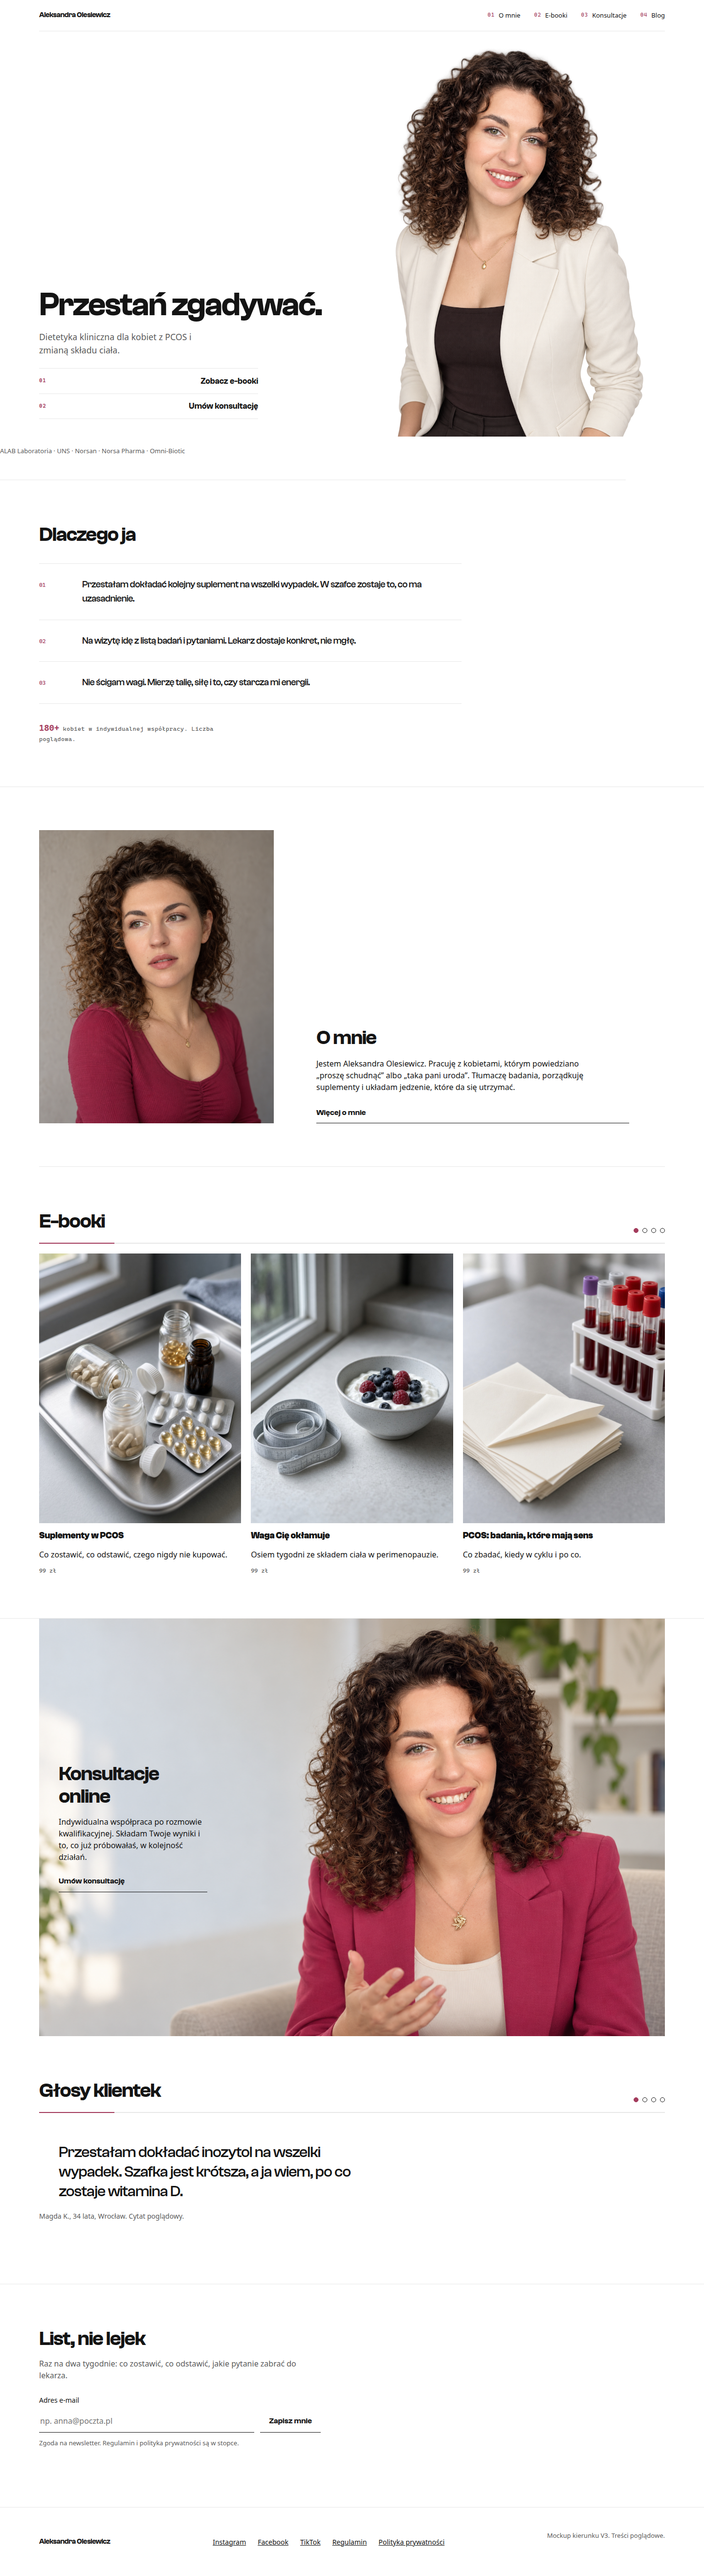
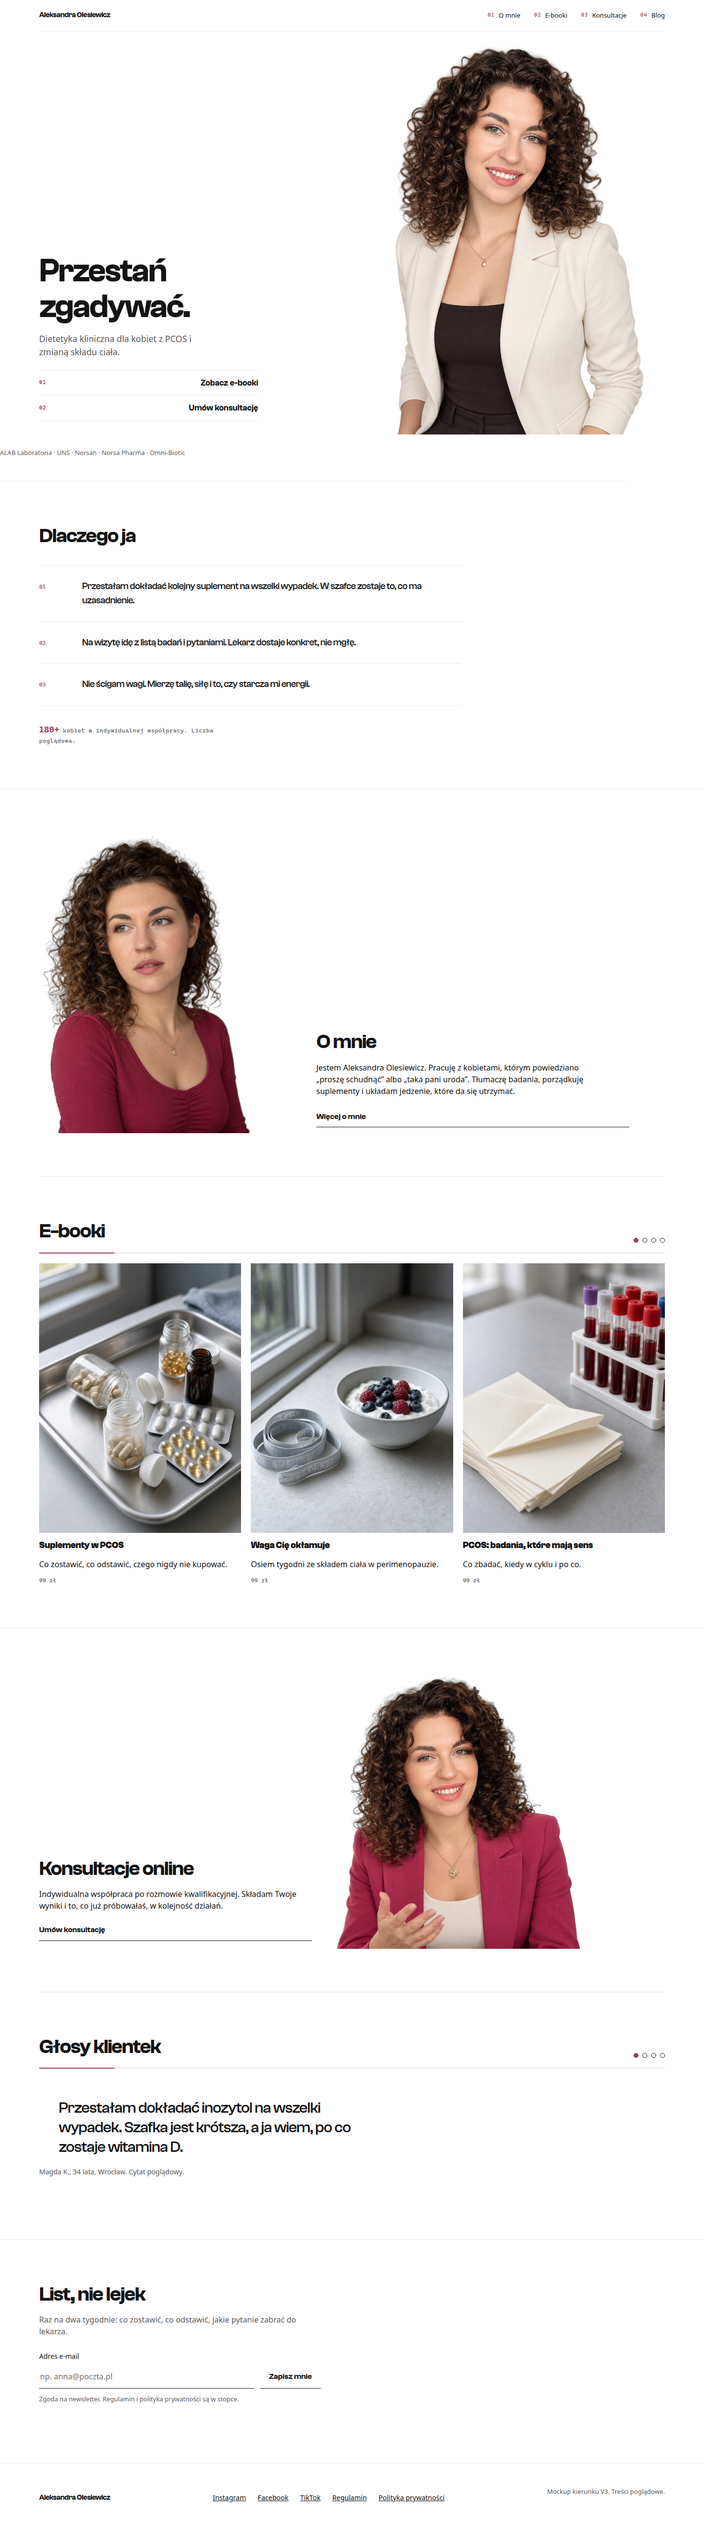
Refresh V3 previews with isolated cutout portraits
Scale the hero silhouette to the viewport so the full asset
sits on white. Recapture desktop and mobile full-page PNGs.

diff --git a/mocks/homepage/v3-protocol-index.html b/mocks/homepage/v3-protocol-index.html
@@ -70,8 +70,14 @@
     .hero-copy p { color: var(--mute); font-size: 1.1rem; max-width: 36ch; }
     .cutout { margin: 0; background: transparent; min-width: 0; overflow: visible; }
     .cutout img {
-      width: 100%; height: auto; max-width: 100%;
+      width: auto; height: auto; max-width: 100%;
       object-fit: contain; object-position: center bottom;
+    }
+    .hero .cutout {
+      display: flex; justify-content: flex-end; align-items: flex-end;
+    }
+    .hero .cutout img {
+      max-height: calc(100svh - 96px);
     }
     .cta-index { list-style: none; margin: 8px 0 0; padding: 0; display: grid; gap: 0; max-width: 28rem; }
     .cta-index a {
@@ -173,7 +179,11 @@
       form.news { grid-template-columns: 1fr; }
       .hero, .about-block, .consult-stage { grid-template-columns: 1fr; min-height: 0; }
       .hero .cutout, .about-block .cutout, .consult-stage .cutout { order: -1; }
-      .cutout img, .about-block .cutout img, .consult-stage .cutout img { width: 100%; max-width: 100%; }
+      .hero .cutout { justify-content: center; }
+      .cutout img, .about-block .cutout img, .consult-stage .cutout img {
+        width: auto; max-width: 100%;
+      }
+      .hero .cutout img { max-height: min(70svh, calc(100svh - 96px)); }
       .burger { display: inline-flex; align-items: center; justify-content: center; }
       .nav {
         display: none; position: fixed; inset: 0; background: #fff;
